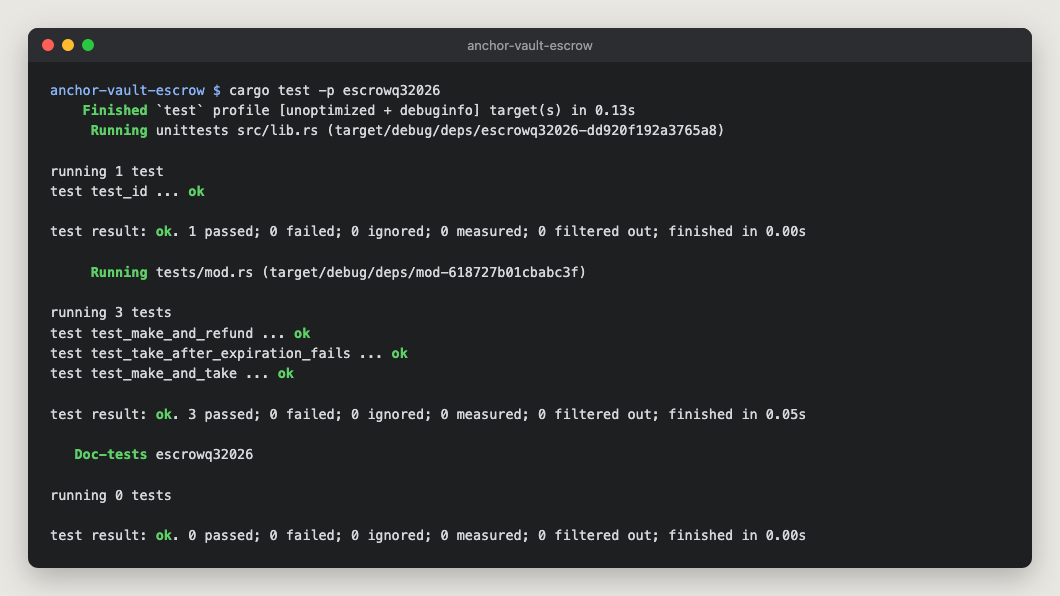
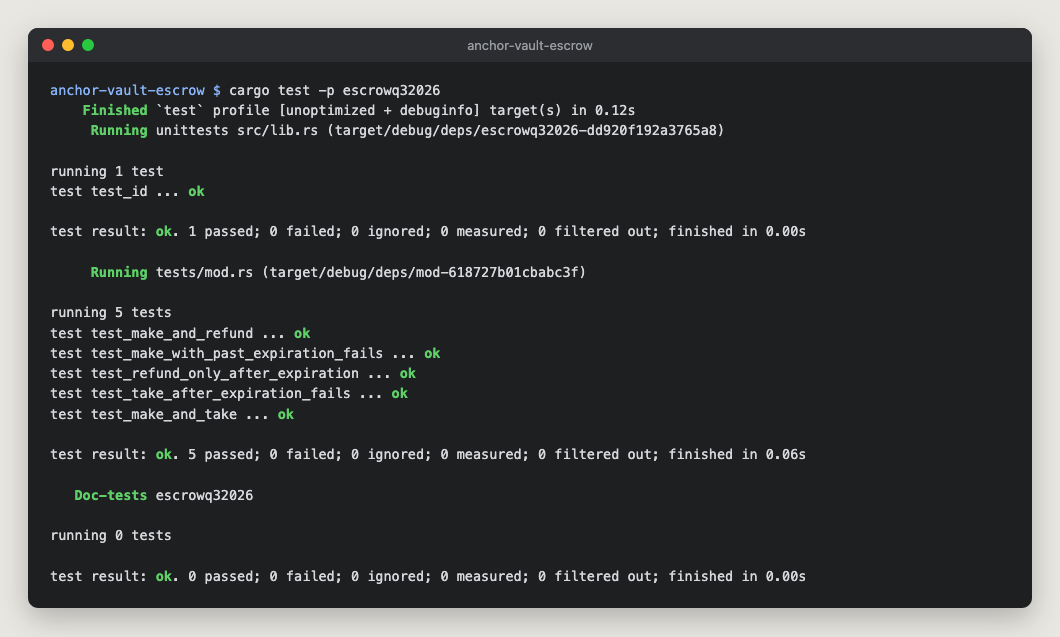
Make the escrow a timed escrow
The offer is open until its expiration, checked against the clock
sysvar. make rejects an expiration that isn't in the future, take only
works before it, and refund only works from it on. A taker always gets
the full window, and the maker can always get their tokens back after.

Adds the ExpirationInPast and EscrowNotExpired errors, tests for make
with a past expiration and for refund on both sides of the expiry, and
moves the clock in the starter's refund test. Updates the escrow test
screenshot and both READMEs.

diff --git a/anchor-vault-escrow/programs/escrowq32026/tests/mod.rs b/anchor-vault-escrow/programs/escrowq32026/tests/mod.rs
@@ -143,6 +143,8 @@ fn test_make_and_refund() {
     assert_eq!(escrow_data.mint_b, mint_b);
     assert_eq!(escrow_data.receive, 10_000_000);
 
+    set_time(&mut program, escrow_data.expiration);
+
     // Create the "Refund" instruction to refund tokens back to the maker
     let refund_ix = Instruction {
         program_id: escrowq32026::id(),
@@ -180,12 +182,14 @@ const OFFER_SEED: u64 = 7;
 const OFFERED_A: u64 = 10_000_000;
 const ASKED_B: u64 = 25_000_000;
 const TAKER_B: u64 = 100_000_000;
+const WINDOW: i64 = 3_600;
 
 struct Offer {
     maker: Keypair,
     taker: Keypair,
     mint_a: Pubkey,
     mint_b: Pubkey,
+    maker_ata_a: Pubkey,
     escrow: Pubkey,
     vault: Pubkey,
     taker_ata_b: Pubkey,
@@ -205,7 +209,21 @@ fn token_amount(svm: &LiteSVM, token_account: &Pubkey) -> u64 {
         .amount
 }
 
-fn open_offer(svm: &mut LiteSVM, maker: Keypair, expiration: i64) -> Offer {
+fn now(svm: &LiteSVM) -> i64 {
+    svm.get_sysvar::<Clock>().unix_timestamp
+}
+
+fn set_time(svm: &mut LiteSVM, unix_timestamp: i64) {
+    let mut clock = svm.get_sysvar::<Clock>();
+    clock.unix_timestamp = unix_timestamp;
+    svm.set_sysvar(&clock);
+}
+
+fn program_error(code: ErrorCode) -> TransactionError {
+    TransactionError::InstructionError(0, InstructionError::Custom(code.into()))
+}
+
+fn new_offer(svm: &mut LiteSVM, maker: Keypair) -> Offer {
     let mint_a = CreateMint::new(svm, &maker)
         .decimals(6)
         .authority(&maker.pubkey())
@@ -236,30 +254,6 @@ fn open_offer(svm: &mut LiteSVM, maker: Keypair, expiration: i64) -> Offer {
     .0;
     let vault = associated_token::get_associated_token_address(&escrow, &mint_a);
 
-    let make_ix = Instruction {
-        program_id: escrowq32026::id(),
-        accounts: escrowq32026::accounts::Make {
-            maker: maker.pubkey(),
-            mint_a,
-            mint_b,
-            maker_ata_a,
-            escrow,
-            vault,
-            associated_token_program: ASSOCIATED_TOKEN_PROGRAM_ID,
-            token_program: TOKEN_PROGRAM_ID,
-            system_program: SYSTEM_PROGRAM_ID,
-        }
-        .to_account_metas(None),
-        data: escrowq32026::instruction::Make {
-            seed: OFFER_SEED,
-            deposit: OFFERED_A,
-            receive: ASKED_B,
-            expiration,
-        }
-        .data(),
-    };
-    send(svm, &maker, make_ix).unwrap();
-
     let taker = Keypair::new();
     svm.airdrop(&taker.pubkey(), 1_000_000_000).unwrap();
     let taker_ata_b = CreateAssociatedTokenAccount::new(svm, &taker, &mint_b)
@@ -275,10 +269,42 @@ fn open_offer(svm: &mut LiteSVM, maker: Keypair, expiration: i64) -> Offer {
         taker,
         mint_a,
         mint_b,
+        maker_ata_a,
         escrow,
         vault,
         taker_ata_b,
     }
+}
+
+fn make_ix(offer: &Offer, expiration: i64) -> Instruction {
+    Instruction {
+        program_id: escrowq32026::id(),
+        accounts: escrowq32026::accounts::Make {
+            maker: offer.maker.pubkey(),
+            mint_a: offer.mint_a,
+            mint_b: offer.mint_b,
+            maker_ata_a: offer.maker_ata_a,
+            escrow: offer.escrow,
+            vault: offer.vault,
+            associated_token_program: ASSOCIATED_TOKEN_PROGRAM_ID,
+            token_program: TOKEN_PROGRAM_ID,
+            system_program: SYSTEM_PROGRAM_ID,
+        }
+        .to_account_metas(None),
+        data: escrowq32026::instruction::Make {
+            seed: OFFER_SEED,
+            deposit: OFFERED_A,
+            receive: ASKED_B,
+            expiration,
+        }
+        .data(),
+    }
+}
+
+fn open_offer(svm: &mut LiteSVM, maker: Keypair, expiration: i64) -> Offer {
+    let offer = new_offer(svm, maker);
+    send(svm, &offer.maker, make_ix(&offer, expiration)).unwrap();
+    offer
 }
 
 fn take_ix(offer: &Offer) -> Instruction {
@@ -305,11 +331,28 @@ fn take_ix(offer: &Offer) -> Instruction {
     }
 }
 
+fn refund_ix(offer: &Offer) -> Instruction {
+    Instruction {
+        program_id: escrowq32026::id(),
+        accounts: escrowq32026::accounts::Refund {
+            maker: offer.maker.pubkey(),
+            mint_a: offer.mint_a,
+            maker_ata_a: offer.maker_ata_a,
+            escrow: offer.escrow,
+            vault: offer.vault,
+            token_program: TOKEN_PROGRAM_ID,
+            system_program: SYSTEM_PROGRAM_ID,
+        }
+        .to_account_metas(None),
+        data: escrowq32026::instruction::Refund {}.data(),
+    }
+}
+
 #[test]
 fn test_make_and_take() {
     let (mut svm, maker) = setup();
-    let now = svm.get_sysvar::<Clock>().unix_timestamp;
-    let offer = open_offer(&mut svm, maker, now + 3_600);
+    let expiration = now(&svm) + WINDOW;
+    let offer = open_offer(&mut svm, maker, expiration);
 
     let maker = offer.maker.pubkey();
     let taker_ata_a =
@@ -322,6 +365,7 @@ fn test_make_and_take() {
     let rent_returned =
         svm.get_balance(&offer.escrow).unwrap() + svm.get_balance(&offer.vault).unwrap();
 
+    set_time(&mut svm, expiration - 1);
     let tx = send(&mut svm, &offer.taker, take_ix(&offer)).unwrap();
     msg!("\n\nTake transaction successful");
     msg!("CUs Consumed: {}", tx.compute_units_consumed);
@@ -339,25 +383,49 @@ fn test_make_and_take() {
 }
 
 #[test]
+fn test_make_with_past_expiration_fails() {
+    let (mut svm, maker) = setup();
+    let offer = new_offer(&mut svm, maker);
+    let expiration = now(&svm);
+
+    let failed = send(&mut svm, &offer.maker, make_ix(&offer, expiration)).unwrap_err();
+    assert_eq!(failed.err, program_error(ErrorCode::ExpirationInPast));
+
+    assert!(svm.get_account(&offer.escrow).is_none());
+    assert_eq!(token_amount(&svm, &offer.maker_ata_a), OFFERED_A);
+}
+
+#[test]
 fn test_take_after_expiration_fails() {
     let (mut svm, maker) = setup();
-    let expiration = svm.get_sysvar::<Clock>().unix_timestamp + 3_600;
+    let expiration = now(&svm) + WINDOW;
     let offer = open_offer(&mut svm, maker, expiration);
 
-    let mut clock = svm.get_sysvar::<Clock>();
-    clock.unix_timestamp = expiration;
-    svm.set_sysvar(&clock);
-
+    set_time(&mut svm, expiration);
     let failed = send(&mut svm, &offer.taker, take_ix(&offer)).unwrap_err();
-    assert_eq!(
-        failed.err,
-        TransactionError::InstructionError(
-            0,
-            InstructionError::Custom(ErrorCode::EscrowExpired.into())
-        )
-    );
+    assert_eq!(failed.err, program_error(ErrorCode::EscrowExpired));
 
     assert_eq!(token_amount(&svm, &offer.vault), OFFERED_A);
     assert_eq!(token_amount(&svm, &offer.taker_ata_b), TAKER_B);
     assert!(svm.get_account(&offer.escrow).is_some());
+}
+
+#[test]
+fn test_refund_only_after_expiration() {
+    let (mut svm, maker) = setup();
+    let expiration = now(&svm) + WINDOW;
+    let offer = open_offer(&mut svm, maker, expiration);
+
+    set_time(&mut svm, expiration - 1);
+    let failed = send(&mut svm, &offer.maker, refund_ix(&offer)).unwrap_err();
+    assert_eq!(failed.err, program_error(ErrorCode::EscrowNotExpired));
+    assert_eq!(token_amount(&svm, &offer.vault), OFFERED_A);
+
+    set_time(&mut svm, expiration);
+    svm.expire_blockhash();
+    send(&mut svm, &offer.maker, refund_ix(&offer)).unwrap();
+
+    assert_eq!(token_amount(&svm, &offer.maker_ata_a), OFFERED_A);
+    assert!(svm.get_account(&offer.escrow).is_none());
+    assert!(svm.get_account(&offer.vault).is_none());
 }

diff --git a/anchor-vault-escrow/programs/escrowq32026/src/instructions/refund.rs b/anchor-vault-escrow/programs/escrowq32026/src/instructions/refund.rs
@@ -4,7 +4,7 @@ use anchor_spl::token_interface::{
     TransferChecked,
 };
 
-use crate::{state::Escrow, ESCROW_SEED};
+use crate::{error::ErrorCode, state::Escrow, ESCROW_SEED};
 
 #[derive(Accounts)]
 pub struct Refund<'info> {
@@ -37,6 +37,12 @@ pub struct Refund<'info> {
 }
 
 impl<'info> Refund<'info> {
+    pub fn check_expired(&self) -> Result<()> {
+        let now = Clock::get()?.unix_timestamp;
+        require!(now >= self.escrow.expiration, ErrorCode::EscrowNotExpired);
+        Ok(())
+    }
+
     //Refund tokens from vault to maker and close vault
     pub fn refund_and_close_vault(&mut self) -> Result<()> {
         let signer_seeds: [&[&[u8]]; 1] = [&[

diff --git a/anchor-vault-escrow/programs/escrowq32026/src/instructions/make.rs b/anchor-vault-escrow/programs/escrowq32026/src/instructions/make.rs
@@ -1,6 +1,6 @@
 use anchor_lang::prelude::*;
 
-use crate::{Escrow, ESCROW_SEED};
+use crate::{error::ErrorCode, Escrow, ESCROW_SEED};
 use anchor_spl::{
     associated_token::AssociatedToken,
     token_interface::{transfer_checked, Mint, TokenAccount, TokenInterface, TransferChecked},
@@ -55,6 +55,11 @@ impl<'info> Make<'info> {
         bumps: &MakeBumps,
         expiration: i64,
     ) -> Result<()> {
+        require!(
+            expiration > Clock::get()?.unix_timestamp,
+            ErrorCode::ExpirationInPast
+        );
+
         self.escrow.set_inner(Escrow {
             seed,
             maker: self.maker.key(),

diff --git a/anchor-vault-escrow/programs/escrowq32026/src/error.rs b/anchor-vault-escrow/programs/escrowq32026/src/error.rs
@@ -4,4 +4,8 @@ use anchor_lang::prelude::*;
 pub enum ErrorCode {
     #[msg("The escrow has expired")]
     EscrowExpired,
+    #[msg("The expiration must be in the future")]
+    ExpirationInPast,
+    #[msg("The escrow can only be refunded once it has expired")]
+    EscrowNotExpired,
 }

diff --git a/anchor-vault-escrow/programs/escrowq32026/src/lib.rs b/anchor-vault-escrow/programs/escrowq32026/src/lib.rs
@@ -44,6 +44,7 @@ pub mod escrowq32026 {
 
     #[instruction(discriminator = 2)]
     pub fn refund(ctx: Context<Refund>) -> Result<()> {
+        ctx.accounts.check_expired()?;
         ctx.accounts.refund_and_close_vault()
     }
 }

diff --git a/anchor-vault-escrow/README.md b/anchor-vault-escrow/README.md
@@ -26,22 +26,28 @@ The vault is owned by the System Program, so `withdraw` and `close` move SOL wit
 
 ## Escrow
 
-The maker locks token A in a vault owned by the escrow PDA (`["escrow", maker, seed]`) and asks for an amount of token B. A taker sends that token B and gets the token A in the same transaction. Until then, the maker can take their tokens back.
+The maker locks token A in a vault owned by the escrow PDA (`["escrow", maker, seed]`) and asks for an amount of token B. A taker sends that token B and gets the token A in the same transaction.
+
+It's a timed escrow. The offer stays open until `expiration`, a unix timestamp checked against the clock sysvar. Before then only a taker can close it, and from then on only the maker can, by taking their tokens back. A taker always gets the full window, and the maker's tokens never get stuck.
 
 | Instruction | What it does |
 |---|---|
-| `make(seed, deposit, receive, expiration)` | Creates the escrow and its vault and deposits token A (starter) |
-| `refund` | Returns token A to the maker and closes the vault and escrow (starter) |
-| `take` | Fails once the clock reaches `expiration`. Otherwise swaps the tokens and closes the vault and escrow, with the rent going back to the maker. |
+| `make(seed, deposit, receive, expiration)` | Creates the escrow and its vault and deposits token A. Rejects an `expiration` that isn't in the future. |
+| `take` | Before `expiration`: swaps the tokens and closes the vault and escrow, with the rent going back to the maker |
+| `refund` | From `expiration` on: returns token A to the maker and closes the vault and escrow |
 | `update` | Not written yet |
+
+`make` and `refund` came with the starter; I added their time checks and wrote `take`.
 
 ### Tests
 
 [`tests/mod.rs`](programs/escrowq32026/tests/mod.rs):
 
-- `test_make_and_refund` (starter)
-- `test_make_and_take`: both sides get their tokens, the vault and escrow are closed, and the maker gets the rent back
-- `test_take_after_expiration_fails`: moves the clock to the expiry and checks that `take` fails with `EscrowExpired` and no tokens move
+- `test_make_and_take`: takes one second before the expiry; both sides get their tokens, the vault and escrow are closed, and the maker gets the rent back
+- `test_make_with_past_expiration_fails`: `make` with an expiry of right now fails with `ExpirationInPast`
+- `test_take_after_expiration_fails`: at the expiry, `take` fails with `EscrowExpired` and no tokens move
+- `test_refund_only_after_expiration`: `refund` fails with `EscrowNotExpired` one second before the expiry, then works at the expiry
+- `test_make_and_refund` (starter): now moves the clock to the expiry before refunding
 
 ![escrow tests passing](docs/escrow-tests.png)
 

diff --git a/README.md b/README.md
@@ -6,4 +6,4 @@ My work for the [Turbin3](https://turbin3.org) Q4 2026 Builders Cohort. Each ass
 |---|---|---|
 | Prerequisite, Part 1: Vault program | [`pre-req-vault/`](pre-req-vault) | Anchor vault program whose `withdraw` makes a CPI into the Turbin3 registration program. Deployed to devnet at [`CSnNzT57…Z8Y1`](https://explorer.solana.com/address/CSnNzT5768yVdNbaKH2teECCuvEVovUGaxWZtr48Z8Y1?cluster=devnet). |
 | SPL token and Metaplex Core NFT (all 5 tasks, including both extensions) | [`turbine-spl-nft-26/`](turbine-spl-nft-26) | "Looking Up", built around one of my photos. The LKUP SPL token with Token Metadata is minted and transferred. A Core NFT of the photo is minted, renamed by its update authority, transferred and burned for its rent. Token mint [`9o6ZZPQ7…fa7j`](https://explorer.solana.com/address/9o6ZZPQ7yA19sd7pMGsV9EGnt1XW5cRX3vY7dcN2fa7j?cluster=devnet). |
-| Vault and escrow programs | [`anchor-vault-escrow/`](anchor-vault-escrow) | A SOL vault (I wrote `withdraw` and `close`) and a token escrow (I wrote `take` with an expiry check; `update` is next) in one Anchor workspace, tested with LiteSVM. |
+| Vault and escrow programs | [`anchor-vault-escrow/`](anchor-vault-escrow) | A SOL vault (I wrote `withdraw` and `close`) and a timed token escrow (I wrote `take` and the expiry rules; `update` is next) in one Anchor workspace, tested with LiteSVM. |
